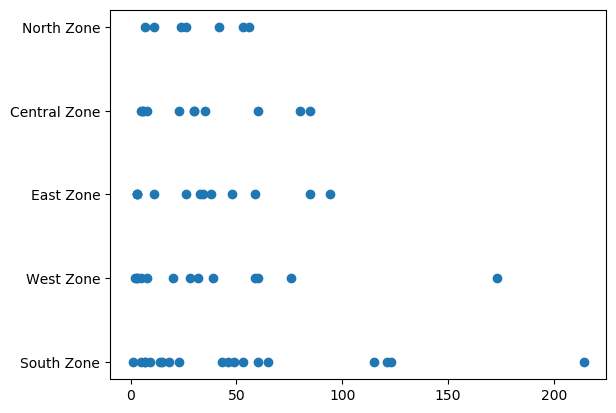
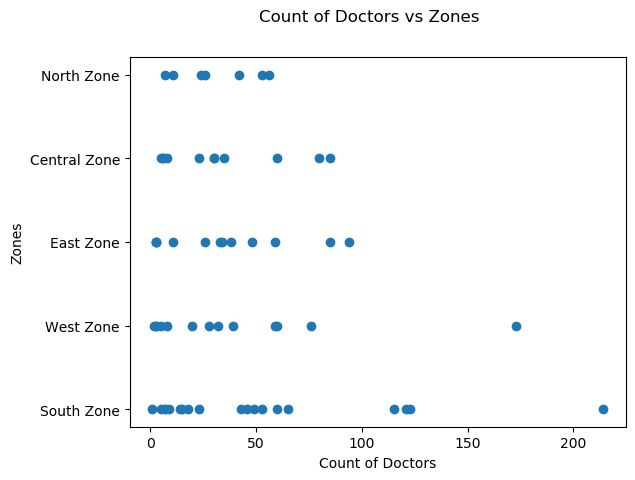
Real Time Conclusions

diff --git a/src/main/python/capstone/templates/preventative.html b/src/main/python/capstone/templates/preventative.html
@@ -30,6 +30,7 @@
                             <button type="submit" role="button" class="btn btn-success btn-lg ">Perform Test</a>
                         </form>
                     </div>
+                    {{ error }}
                     {% if uploaded_file_url %}
                         <img src="{% static '' %}{{ uploaded_file_url|slice:'1:'|add:'_1.png' }}">
                         <br>
@@ -55,10 +56,15 @@
                             Conclusion
                         </h1>
                         <ul>
-                            <li>{{ conclusion1 }}</li>
-                            <li>{{ conclusion2 }}</li>
-                            <li>{{ conclusion3 }}</li>
-                            <li>{{ conclusion4 }}</li>
+                            {% if max_zone and maximum_doc %}
+                                <li>The highest count of doctors lie in the {{ max_zone }} with a total of {{ maximum_doc }} doctors</li>
+                            {% endif %}
+                            {% if min_area and minimum_pop %}
+                                <li>The area of {{ min_area }} has the lowest population per doctor count of {{ minimum_pop }}</li>
+                            {% endif %}
+                            {% if areas_list %}
+                                <li>More Doctors should be appointed in the areas where the population per doctor count exceeds 5000, i.e., {{ areas_list }}, in order to properly treat the patients and prevent the outbreak of dangerous diseases</li>
+                            {% endif %}
                         </ul>
                     {% endif %}
                 </div>

diff --git a/src/main/python/capstone/preventative/views.py b/src/main/python/capstone/preventative/views.py
@@ -4,64 +4,94 @@ import pandas as pd
 import matplotlib.pyplot as plt
 from sklearn.preprocessing import Imputer
 from sklearn.preprocessing import LabelEncoder, OneHotEncoder
-
 from django.core.files.storage import FileSystemStorage
 from django.conf import settings
-
 # Create your views here.
-
 def preventative(request):
-    if request.method == 'POST' and request.FILES['myfile']:
-        myfile = request.FILES['myfile']
-        fs = FileSystemStorage()
-        filename = fs.save(myfile.name, myfile)
-        uploaded_file_url = fs.url(filename)
-        dataset = pd.read_excel(settings.BASE_DIR + uploaded_file_url)
-        dataset = dataset.drop([0])
-        dataset = dataset.drop([1])
-        dataset = dataset.drop([95])
-        dataset = dataset.rename(columns={
-            'Type': 'Row Labels',
-            'TRUE': 'Count of Doctors',
-            'Unnamed: 2': 'Centers',
-            'Unnamed: 3': 'Population',
-            'Unnamed: 4': 'Areas',
-            'Unnamed: 5': 'Zones',
-        })
-        imputer = Imputer(missing_values = 'nan', strategy = 'mean', axis = 0)
-        dataset = dataset.dropna(how='any')
-        labelencoder_X = LabelEncoder()
-        obj=dataset['Areas'].groupby(dataset['Zones'])
-        plt.scatter(dataset['Count of Doctors'], dataset['Zones'])
-        plt.savefig(settings.BASE_DIR + '/static/' + uploaded_file_url + '_1.png', bbox_inches = 'tight')
-        plt.clf()
-        sheets = pd.read_excel(settings.BASE_DIR + uploaded_file_url, sheet_name=['sum'])
-        dataset = pd.concat(sheets[frame] for frame in sheets.keys())
-        dataset = dataset.drop([2])
-        dataset = dataset.rename(columns={
-            'Unnamed: 0': 'Row Labels',
-            'Unnamed: 1': 'Area',
-            'Unnamed: 2': 'Count of center',
-            'Unnamed: 3': 'doctors',
-            'Unnamed: 4': 'pop',
-            'Unnamed: 5': 'Pop/center',
-            'Unnamed: 6': 'Pop/Dr',
-            'Unnamed: 7': 'Dr/cr',
-        })
-        imputer = Imputer(missing_values = 'nan', strategy = 'mean', axis = 0)
-        dataset = dataset.dropna(how='any')
-        labelencoder_X = LabelEncoder()
-        plt.scatter(dataset['Count of center'], dataset['Area'])
-        plt.savefig(settings.BASE_DIR + '/static/' + uploaded_file_url + '_2.png', bbox_inches = 'tight')
-        plt.clf()
-        plt.scatter(dataset['doctors'], dataset['Area'])
-        plt.savefig(settings.BASE_DIR + '/static/' + uploaded_file_url + '_3.png', bbox_inches = 'tight')
-        plt.clf()
-        plt.scatter(dataset['Pop/center'], dataset['Area'])
-        plt.savefig(settings.BASE_DIR + '/static/' + uploaded_file_url + '_4.png', bbox_inches = 'tight')
-        plt.clf()
-        plt.scatter(dataset['Pop/Dr'], dataset['Area'])
-        plt.savefig(settings.BASE_DIR + '/static/' + uploaded_file_url + '_5.png', bbox_inches = 'tight')
-        plt.clf()
-        return render(request, 'preventative.html', {'uploaded_file_url': uploaded_file_url, 'conclusion1': 'The most health centers lie in the South Zone','conclusion2': 'The Area of Jubilee Hills has the lowest population per doctor count of 319','conclusion3': 'The Area of Karmanghat has the most Doctors per center which is 11','conclusion4': 'More Doctors should be appointed in the areas where the population per doctor count is exceeds 5000 in order to properly treat the patients and prevent the outbreak of dangerous diseases' })
-    return render(request, 'preventative.html')
+    try:
+        if request.method == 'POST' and request.FILES['myfile']:
+            myfile = request.FILES['myfile']
+            fs = FileSystemStorage()
+            filename = fs.save(myfile.name, myfile)
+            uploaded_file_url = fs.url(filename)
+
+            dataset = pd.read_excel(settings.BASE_DIR + uploaded_file_url)
+            dataset = dataset.drop([0])
+            dataset = dataset.drop([1])
+            dataset = dataset.drop([95])
+            dataset = dataset.rename(columns={
+                'Type': 'Row Labels',
+                'TRUE': 'Count of Doctors',
+                'Unnamed: 2': 'Centers',
+                'Unnamed: 3': 'Population',
+                'Unnamed: 4': 'Areas',
+                'Unnamed: 5': 'Zones',
+            })
+            imputer = Imputer(missing_values = 'nan', strategy = 'mean', axis = 0)
+            dataset = dataset.dropna(how='any')
+
+            maximum_doc = dataset['Count of Doctors'].groupby(dataset['Zones']).sum().max()
+            max_dict = dict(dataset['Count of Doctors'].groupby(dataset['Zones']).sum())
+            max_zone = list(max_dict.keys())[list(max_dict.values()).index(maximum_doc)]
+            plt.scatter(dataset['Count of Doctors'], dataset['Zones'])
+            plt.suptitle('Count of Doctors vs Zones')
+            plt.xlabel('Count of Doctors')
+            plt.ylabel('Zones')
+            plt.savefig(settings.BASE_DIR + '/static/' + uploaded_file_url + '_1.png', bbox_inches = 'tight')
+            plt.clf()
+
+            sheets = pd.read_excel(settings.BASE_DIR + uploaded_file_url, sheet_name=['sum'])
+            dataset = pd.concat(sheets[frame] for frame in sheets.keys())
+            dataset = dataset.drop([2])
+            dataset = dataset.rename(columns={
+                'Unnamed: 0': 'Row Labels',
+                'Unnamed: 1': 'Area',
+                'Unnamed: 2': 'Count of center',
+                'Unnamed: 3': 'doctors',
+                'Unnamed: 4': 'pop',
+                'Unnamed: 5': 'Pop/center',
+                'Unnamed: 6': 'Pop/Dr',
+                'Unnamed: 7': 'Dr/cr',
+            })
+            imputer = Imputer(missing_values = 'nan', strategy = 'mean', axis = 0)
+            dataset = dataset.dropna(how='any')
+
+            plt.scatter(dataset['Count of center'], dataset['Area'])
+            plt.suptitle('Count of center vs Area')
+            plt.xlabel('Count of center')
+            plt.ylabel('Area')
+            plt.savefig(settings.BASE_DIR + '/static/' + uploaded_file_url + '_2.png', bbox_inches = 'tight')
+            plt.clf()
+
+            plt.scatter(dataset['doctors'], dataset['Area'])
+            plt.suptitle('doctors vs Area')
+            plt.xlabel('doctors')
+            plt.ylabel('Area')
+            plt.savefig(settings.BASE_DIR + '/static/' + uploaded_file_url + '_3.png', bbox_inches = 'tight')
+            plt.clf()
+
+            plt.scatter(dataset['Pop/center'], dataset['Area'])
+            plt.suptitle('Pop/center vs Area')
+            plt.xlabel('Pop/center')
+            plt.ylabel('Area')
+            plt.savefig(settings.BASE_DIR + '/static/' + uploaded_file_url + '_4.png', bbox_inches = 'tight')
+            plt.clf()
+
+            minimum_pop = dataset['Pop/Dr'].groupby(dataset['Area']).sum().min()
+            min_dict = dict(dataset['Pop/Dr'].groupby(dataset['Area']).sum())
+            areas_list = []
+            for i in min_dict:
+                if min_dict[i] > 5000:
+                    areas_list.append(list(min_dict.keys())[list(min_dict.values()).index(min_dict[i])])
+            min_area = list(min_dict.keys())[list(min_dict.values()).index(minimum_pop)]
+            plt.scatter(dataset['Pop/Dr'], dataset['Area'])
+            plt.suptitle('Pop/Dr vs Area')
+            plt.xlabel('Pop/Dr')
+            plt.ylabel('Area')
+            plt.savefig(settings.BASE_DIR + '/static/' + uploaded_file_url + '_5.png', bbox_inches = 'tight')
+            plt.clf()
+
+            return render(request, 'preventative.html', {'uploaded_file_url': uploaded_file_url, 'maximum_doc': maximum_doc, 'max_zone': max_zone, 'minimum_pop': int(minimum_pop), 'areas_list': areas_list, 'min_area': min_area})
+        return render(request, 'preventative.html')
+    except:
+        return render(request, 'preventative.html', {'error': 'Please Select A File'})
